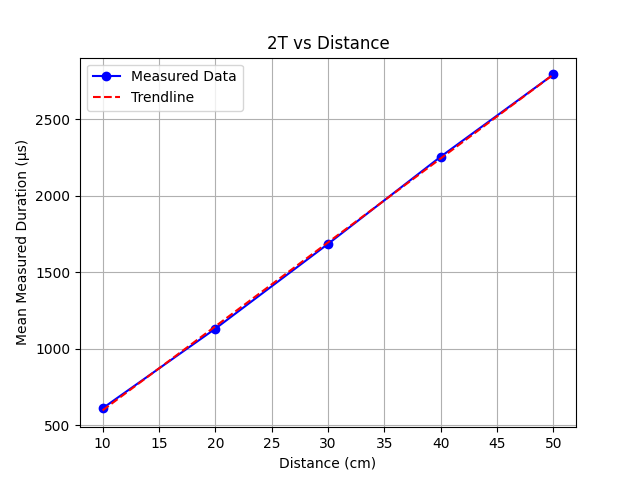
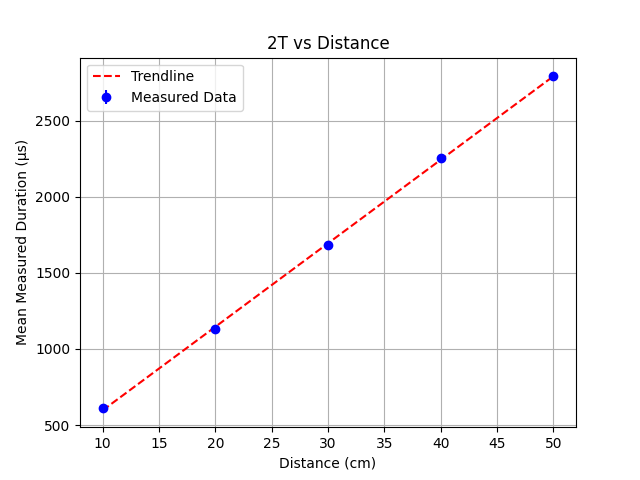
new measurements

diff --git a/part3/resultsokay/calculate.py b/part3/resultsokay/calculate.py
@@ -6,6 +6,7 @@ from scipy.stats import linregress
 # List of distances in cm for measurements
 distances = [10, 20, 30, 40, 50]
 mean_durations = []  # List to store mean durations for each distance
+std_devs = []  # List to store standard deviations for each distance
 
 # Function to read measurements from a CSV file
 def read_measurements_from_csv(file_name):
@@ -17,20 +18,30 @@ def read_measurements_from_csv(file_name):
             measurements.append(int(row[0]))
     return measurements
 
-# Read measurements and calculate mean durations
+# Read measurements and calculate mean durations and standard deviations
 for distance in distances:
     file_name = f"distance_measurements_{distance}cm.csv"
     measurements = read_measurements_from_csv(file_name)
     mean_duration = np.mean(measurements)
+    std_dev = np.std(measurements)
     mean_durations.append(mean_duration)
+    std_devs.append(std_dev)
 
-# Print mean durations for debugging
+# Output the results to a file
+with open("measurement_results.csv", "w", newline='') as f:
+    writer = csv.writer(f)
+    writer.writerow(["Distance (cm)", "Mean Duration (µs)", "Standard Deviation (µs)"])
+    for i, distance in enumerate(distances):
+        writer.writerow([distance, mean_durations[i], std_devs[i]])
+
+# Print mean durations and standard deviations for debugging
 print("Distances (cm):", distances)
 print("Mean Durations (µs):", mean_durations)
+print("Standard Deviations (µs):", std_devs)
 
 # Plot 2T(distance) with a linear trendline
 plt.figure()  # Create a new figure
-plt.plot(distances, mean_durations, 'bo-', label='Measured Data')  # Plot the measured data
+plt.errorbar(distances, mean_durations, yerr=std_devs, fmt='bo', label='Measured Data')  # Plot the measured data with error bars
 slope, intercept, r_value, p_value, std_err = linregress(distances, mean_durations)  # Perform linear regression
 plt.plot(distances, intercept + slope*np.array(distances), 'r--', label='Trendline')  # Plot the trendline
 plt.xlabel('Distance (cm)')  # Label the x-axis
